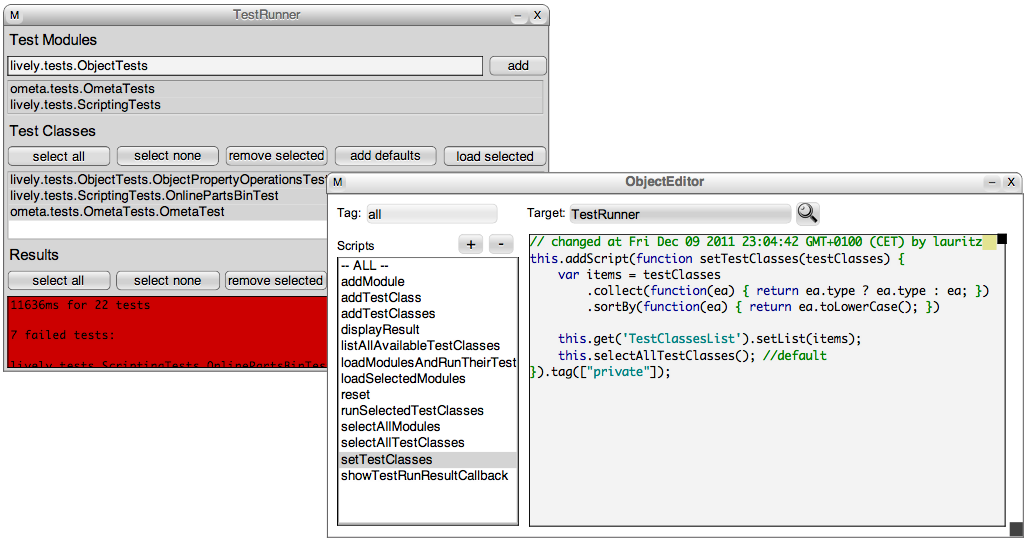
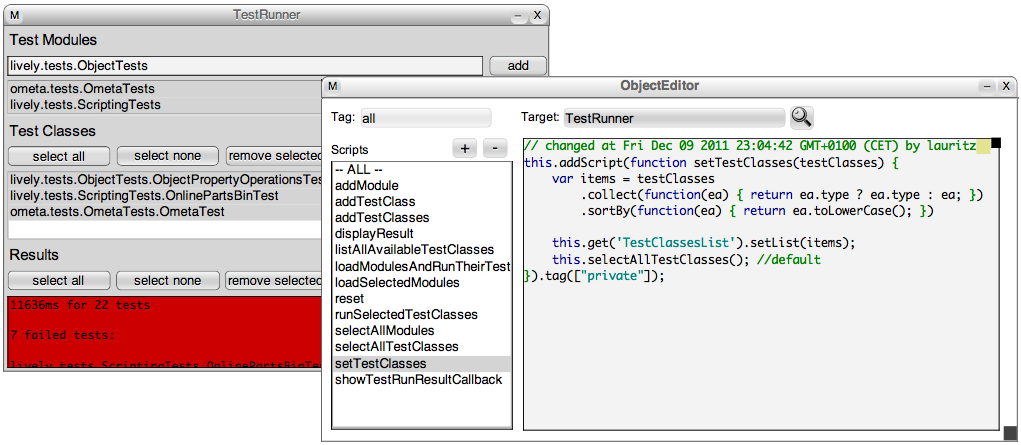
fix last page, add cop reference, namedropping for our work

diff --git a/paper.tex b/paper.tex
@@ -65,7 +65,7 @@ colorinlistoftodos,%
 \newcommand{\doctitle}{Lively Groups: Shared Behavior in a World of Objects without Classes or Prototypes}
 \newcommand{\docauthor}{Tim Felgentreff, Philipp Tessenow, Lauritz Thamsen}
 \newcommand{\docsubject}{Hasso-Plattner-Institut\\ Jens Lincke, Robert Hirschfeld}
-\newcommand{\dockeywords}{Web Applications, Interactive Systems, Explorative Development, Lively Kernel}
+\newcommand{\dockeywords}{Web Applications, Interactive Systems, Exploratory Development, Lively Kernel}
 
 % \RequirePackage[osf,sc]{mathpazo} % Palatino with real small caps and old style figures
 % \linespread{1.05} % a bit more for Palatino
@@ -198,10 +198,17 @@ colorinlistoftodos,%
 
 \begin{document}
 \presetkeys{todonotes}{inline}{}
-\conferenceinfo{FPW '15}{October 25--30, 2015, Pittsburgh, PA, USA} 
+
+
+% \CopyrightYear{2015} 
+% \setcopyright{acmlicensed}
+% \conferenceinfo{FPW'15,}{October 25-30 2015, Pittsburgh, PA, USA}
+% \isbn{}\acmPrice{\$15.00}
+% \doi{http://dx.doi.org/10.1145/2846656.2846659}
+\conferenceinfo{FPW'15}{October 25-30, 2015, Pittsburgh, PA, USA} 
 \copyrightyear{2015} 
-\copyrightdata{978-1-nnnn-nnnn-n/yy/mm} 
-\doi{nnnnnnn.nnnnnnn}
+\copyrightdata{978-1-4503-3905-6/15/10} 
+\doi{2846656.2846659}
 \exclusivelicense
 \titlebanner{Submitted to Future Programming Workshop 2015}        % These are ignored unless
 \preprintfooter{}   % 'preprint' option specified.
@@ -238,9 +245,9 @@ colorinlistoftodos,%
   development, reduced maintainability, or code duplication.
 
   % Approach
-  In this paper, we propose an extension to the object-centric
+  In this paper, we propose Lively Groups, an extension to the object-centric
   development tools of Lively to work on multiple concrete
-  objects. In our approach, developers may dynamically group live
+  objects. With Lively Groups, developers may dynamically organize live
   objects that share behavior using tags. They can then modify and program such 
   groups as if
   they were single objects.
@@ -369,7 +376,7 @@ development approach, we present a game built entirely with objects.
 
 \begin{figure*}
   \centering
-  \includegraphics[width=0.8\textwidth]{images/editor}
+  \includegraphics[width=0.75\textwidth]{images/editor}
   \caption{Lively's Object Editor modifies a test runner built from Parts.}
   \label{fig:editor}
 \end{figure*}
@@ -421,7 +428,7 @@ meter~\textcircled{5} of the opponent down to zero.
 
 \begin{figure}
   \centering
-  \includegraphics[width=0.85\linewidth]{images/game}
+  \includegraphics[width=0.75\linewidth]{images/game}
   \caption{\emph{Freedom of Speech} --- A debating adventure game built from Parts.}
   \label{fig:game}
 \end{figure}
@@ -605,7 +612,7 @@ developers.
 
 \begin{figure}
   \centering
-  \includegraphics[width=\linewidth]{images/groups_selection}
+  \includegraphics[width=0.9\linewidth]{images/groups_selection}
   \caption{Our Object Editor shows a list of available groups.}
   \label{fig:group-names}
 \end{figure}
@@ -727,19 +734,18 @@ detrimental to the maintainability of the system.
 
 \subsection{Multi-dimensional Separation of Concerns}
 
-Decomposition along multiple dimensions, as in Aspect-oriented
-Programming~\cite{Kiczales1997AOP}, Traits~\cite{Curry1982TAM},
+Decomposition along multiple dimensions, as in Aspect- and Context-oriented
+Programming~\cite{Kiczales1997AOP,hirschfeld:2008:cop}, Traits~\cite{Curry1982TAM},
 Mixins~\cite{Curry1982TAM}, and Multiple
-Inheritance~\cite{cardelli1984semantics} structure independent
-concerns of an object independently. Developers compose objects from
-such inpedent decompositions. These modularize behavior and can be
-used by many objects similar to our groups. However, our groups are
-less abstract and enable direct feedback. In comparison to
-abstractions, the group approach does not separate concerns, but
-leaves the required information for execution and understanding in the
-object itself. Furthermore, traits require upfront planning or
-subsequent refactoring when implementing changes to a program, whereas
-object groups can be created on-demand.
+Inheritance~\cite{cardelli1984semantics} structure independent concerns of an
+object independently. Developers compose objects from such inpedent
+decompositions. These modularize behavior and can be used by many objects
+similar to our groups. However, our groups are less abstract and enable direct
+feedback. In comparison to abstractions, the group approach does not separate
+concerns, but leaves the required information for execution and understanding in
+the object itself. Furthermore, traits require upfront planning or subsequent
+refactoring when implementing changes to a program, whereas object groups can be
+created on-demand.
 
 \subsection{Data, Context, and Interaction} \ac{dci} is a paradigm, in
 which objects can occur in different roles, depending on the execution
@@ -771,15 +777,15 @@ across multiple prototypes.
 
 \section{Conclusion} \label{sec:CONCLUSION}
 
-We propose to extend Lively's object-centric development tools to work
-on object groups. Developers may group available objects that share
-behavior either visually, by clicking their graphical shapes or
-choosing them from a view of the Morphic scene-graph, or
-programatically, by evaluating program statements that return
-collections. The object-centric development tools present a group's
-shared functions and allow to specify behavior for all group
-members. Further, developers may evaluate statements on groups and,
-thereby, apply changes to all members simultaneously.
+We have presented Lively Groups as an extension to the Lively Kernel's
+object-centric development tools to group and work on multiple object
+simultaneously. Developers may group available objects that share behavior
+either visually, by clicking their graphical shapes or choosing them from a view
+of the Morphic scene-graph, or programatically, by evaluating program statements
+that return collections. The object-centric development tools present a group's
+shared functions and allow to specify behavior for all group members. Further,
+developers may evaluate statements on groups and, thereby, apply changes to all
+members simultaneously.
 
 With our approach, tools manage duplicated code, while developers
 interact with live objects. That is, developers no longer choose
@@ -797,6 +803,8 @@ discovery.
 Nevertheless, our Object Editor already permits developers to work on
 groups of objects and, thereby, effectively scales the object-centric
 development approach from one to many objects.
+
+\vspace{-0.4em}
 
 \bibliographystyle{abbrvnat}
 \bibliography{bibliography}
